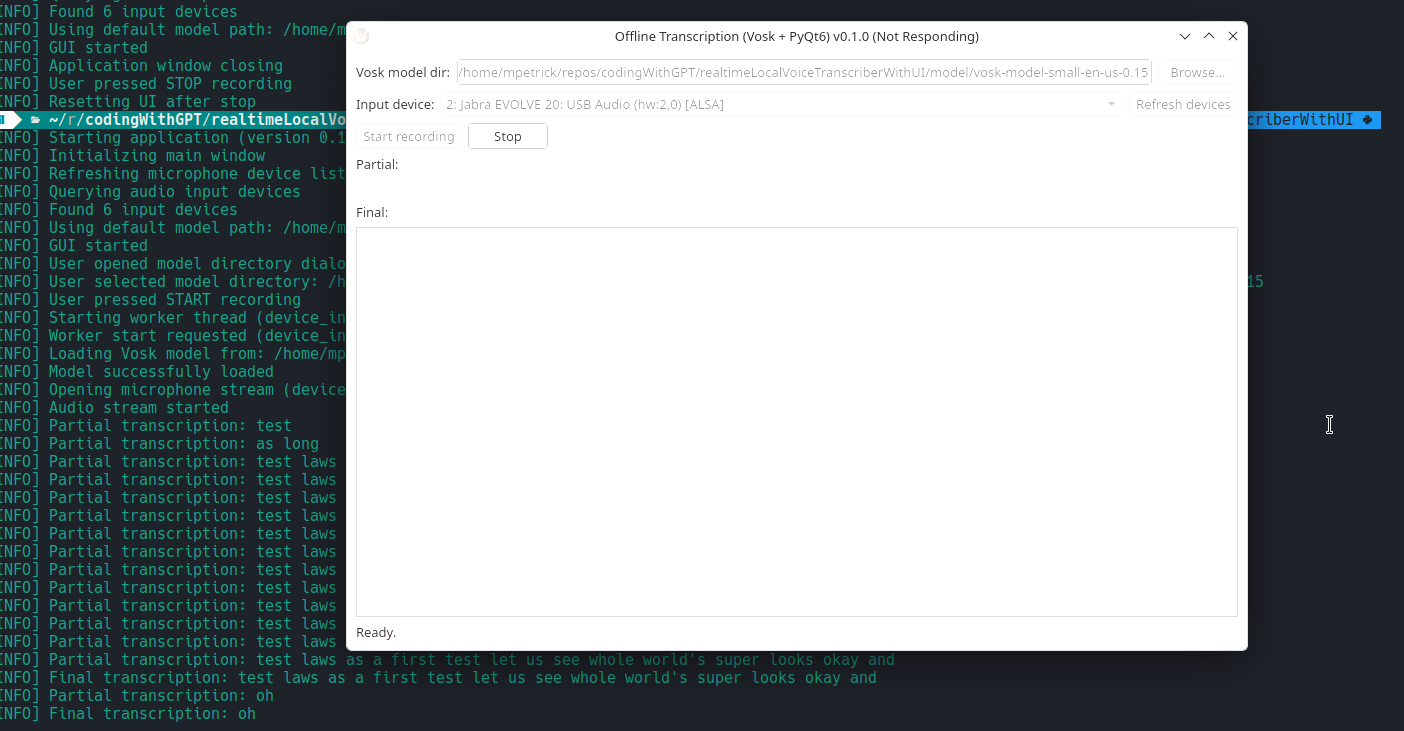
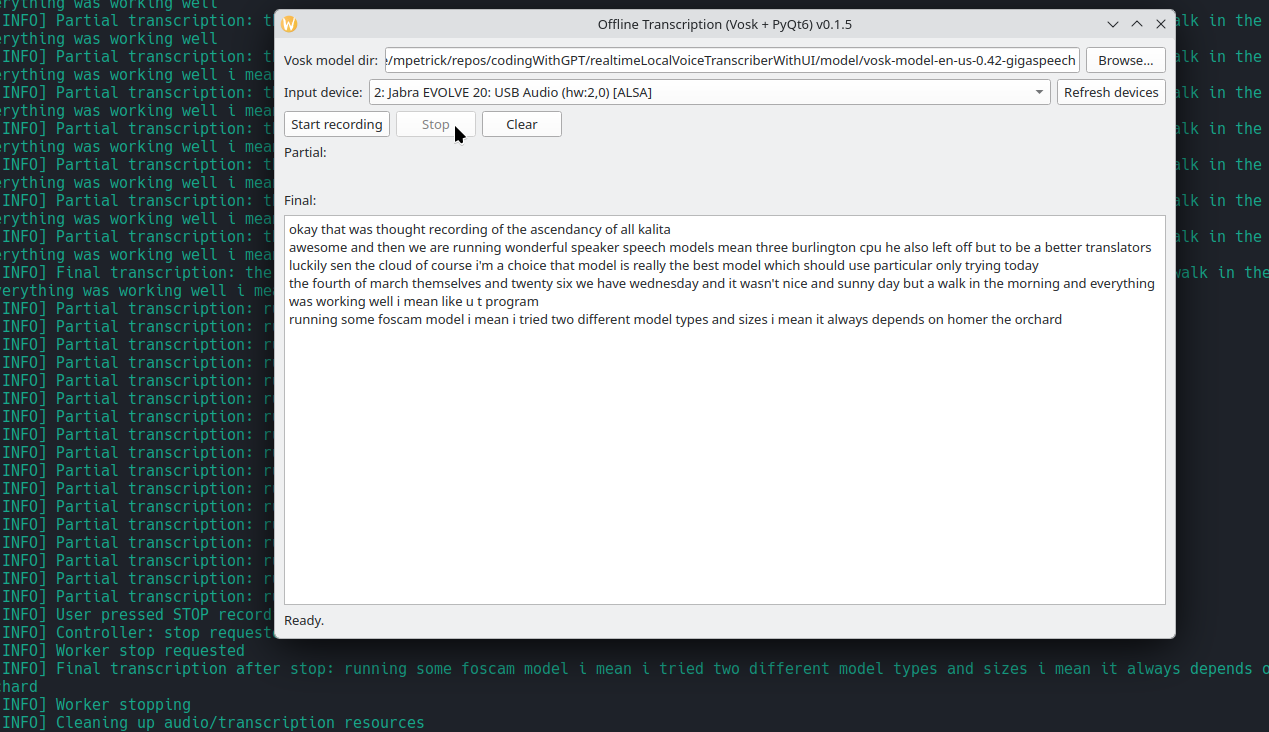
local voice transcription tool: make-over of the UI: progress bar while the model is loaded; clear-button added; editing the textfield is possible

Changed region(s): [[0.0, 0.0, 1.0, 1.0], [0.8913, 0.9029, 1.0, 0.933]]

diff --git a/realtimeLocalVoiceTranscriberWithUI/gui.py b/realtimeLocalVoiceTranscriberWithUI/gui.py
@@ -41,6 +41,7 @@ class MainWindow(QtWidgets.QMainWindow):
         self.resize(900, 600)
 
         self._controller = TranscriptionController(self)
+        self._running: bool = False  # authoritative UI state
 
         # Persistent settings (INI file via QSettings)
         config_dir = Path(
@@ -51,8 +52,8 @@ class MainWindow(QtWidgets.QMainWindow):
         try:
             config_dir.mkdir(parents=True, exist_ok=True)
         except Exception:
-            # If config dir creation fails, QSettings will still try to create the file later.
             pass
+
         self._settings_path = config_dir / "settings.ini"
         self._settings = QtCore.QSettings(
             str(self._settings_path), QtCore.QSettings.Format.IniFormat
@@ -78,6 +79,16 @@ class MainWindow(QtWidgets.QMainWindow):
         self.stop_btn = QtWidgets.QPushButton("Stop")
         self.stop_btn.setEnabled(False)
 
+        # NEW: Clear button (only usable when not running)
+        self.clear_btn = QtWidgets.QPushButton("Clear")
+        self.clear_btn.setEnabled(True)
+
+        # NEW: Busy indicator for slow model loading / start
+        self.busy_bar = QtWidgets.QProgressBar()
+        self.busy_bar.setRange(0, 0)  # indeterminate
+        self.busy_bar.setTextVisible(False)
+        self.busy_bar.setVisible(False)
+
         self.status_label = QtWidgets.QLabel("Ready.")
         self.status_label.setWordWrap(True)
 
@@ -85,8 +96,9 @@ class MainWindow(QtWidgets.QMainWindow):
         self.partial_label.setStyleSheet("font-style: italic;")
         self.partial_label.setWordWrap(True)
 
+        # NEW: Make final field editable (but we will toggle readOnly while running)
         self.text_out = QtWidgets.QPlainTextEdit()
-        self.text_out.setReadOnly(True)
+        self.text_out.setReadOnly(False)
         self.text_out.setPlaceholderText("Final transcription will appear here…")
 
         # Layout
@@ -109,7 +121,9 @@ class MainWindow(QtWidgets.QMainWindow):
         btn_row = QtWidgets.QHBoxLayout()
         btn_row.addWidget(self.start_btn)
         btn_row.addWidget(self.stop_btn)
+        btn_row.addWidget(self.clear_btn)
         btn_row.addStretch(1)
+        btn_row.addWidget(self.busy_bar)
         layout.addLayout(btn_row)
 
         layout.addWidget(QtWidgets.QLabel("Partial:"))
@@ -123,6 +137,9 @@ class MainWindow(QtWidgets.QMainWindow):
         self.refresh_devices_btn.clicked.connect(self._populate_devices)
         self.start_btn.clicked.connect(self._on_start_clicked)
         self.stop_btn.clicked.connect(self._on_stop_clicked)
+
+        # NEW: clear final text
+        self.clear_btn.clicked.connect(self._on_clear_clicked)
 
         # Persist user choices
         self.model_path_edit.editingFinished.connect(self._save_model_dir)
@@ -138,6 +155,9 @@ class MainWindow(QtWidgets.QMainWindow):
         # Initialize defaults (restore persisted choices first)
         self._populate_devices()
         self._init_default_model_path()
+
+        # Initial UI state rules
+        self._apply_editability_rules()
 
     def closeEvent(self, event: QtGui.QCloseEvent) -> None:
         """
@@ -172,7 +192,6 @@ class MainWindow(QtWidgets.QMainWindow):
             _info(f"Using default model path: {mp}")
             self.model_path_edit.setText(str(mp))
             self.start_btn.setEnabled(True)
-            # Don't overwrite a user's previous choice unless they change it.
         else:
             _warn("No default Vosk model found. Set VOSK_MODEL_PATH or put a model in ./model.")
             self.status_label.setText("No model dir found. Set VOSK_MODEL_PATH or put a model in ./model.")
@@ -181,7 +200,6 @@ class MainWindow(QtWidgets.QMainWindow):
     def _populate_devices(self) -> None:
         _info("Refreshing microphone device list")
 
-        # Prefer the currently selected device; otherwise fall back to persisted choice.
         preferred = self.device_combo.currentData()
         if preferred is None:
             preferred = self._saved_device_index
@@ -198,7 +216,6 @@ class MainWindow(QtWidgets.QMainWindow):
             if i >= 0:
                 self.device_combo.setCurrentIndex(i)
             else:
-                # If the saved device no longer exists, fall back to default.
                 self.device_combo.setCurrentIndex(0)
         finally:
             self.device_combo.blockSignals(False)
@@ -206,7 +223,6 @@ class MainWindow(QtWidgets.QMainWindow):
     # --------------------------- Persistence ---------------------------
 
     def _save_model_dir(self) -> None:
-        """Persist the currently entered model directory to the INI file."""
         model_dir = self.model_path_edit.text().strip()
         if not model_dir:
             return
@@ -216,7 +232,6 @@ class MainWindow(QtWidgets.QMainWindow):
         _info(f"Persisted model path to settings: {model_dir}")
 
     def _save_device_index(self, device_index: int) -> None:
-        """Persist the selected input device index to the INI file."""
         self._settings.setValue("audio/device_index", int(device_index))
         self._settings.sync()
         self._saved_device_index = int(device_index)
@@ -224,16 +239,12 @@ class MainWindow(QtWidgets.QMainWindow):
 
     @QtCore.pyqtSlot(int)
     def _on_device_changed(self, _: int) -> None:
-        """Handle device selection changes (stdout + persistence)."""
         device_index = int(self.device_combo.currentData() or -1)
         device_label = self.device_combo.currentText()
-
-        # Explicit stdout output as requested (in addition to internal logging)
         print(f"Selected input device: {device_label} (device_index={device_index})", flush=True)
-
         self._save_device_index(device_index)
 
-# --------------------------- User actions ---------------------------
+    # --------------------------- User actions ---------------------------
 
     def _browse_model_dir(self) -> None:
         _info("User opened model directory dialog")
@@ -267,16 +278,31 @@ class MainWindow(QtWidgets.QMainWindow):
         self._save_model_dir()
         self._save_device_index(device_index)
 
+        # Immediate UX feedback: disable Start right away and show busy indicator.
+        # Actual running state will be confirmed by running_changed/status signals.
+        self.start_btn.setEnabled(False)
+        self._set_busy(True, "Starting… loading model")
+
         self._controller.start(model_dir=model_dir, device_index=device_index)
 
     def _on_stop_clicked(self) -> None:
         _info("User pressed STOP recording")
         self._controller.stop()
 
+    def _on_clear_clicked(self) -> None:
+        # Only allowed when not recording
+        if self._running:
+            return
+        self.text_out.clear()
+        self._set_status("Cleared.")
+        self.partial_label.setText("")
+
     # --------------------------- UI updates ---------------------------
 
     @QtCore.pyqtSlot(bool)
     def _set_running_state(self, running: bool) -> None:
+        self._running = bool(running)
+
         # Enable/disable controls depending on state.
         self.start_btn.setEnabled(not running)
         self.stop_btn.setEnabled(running)
@@ -286,13 +312,23 @@ class MainWindow(QtWidgets.QMainWindow):
         self.model_path_edit.setEnabled(not running)
         self.model_browse_btn.setEnabled(not running)
 
+        # NEW: Clear + editability only when NOT running
+        self.clear_btn.setEnabled(not running)
+        self._apply_editability_rules()
+
         if not running:
             self._set_partial("")
+            self._set_busy(False, "Ready.")
+
+    def _apply_editability_rules(self) -> None:
+        # editable ONLY when not recording
+        self.text_out.setReadOnly(self._running)
 
     @QtCore.pyqtSlot(str)
     def _append_final(self, text: str) -> None:
         if not text:
             return
+        # While recording, keep the caret at end and append; users can edit later.
         self.text_out.appendPlainText(text)
 
     @QtCore.pyqtSlot(str)
@@ -301,11 +337,37 @@ class MainWindow(QtWidgets.QMainWindow):
 
     @QtCore.pyqtSlot(str)
     def _set_status(self, text: str) -> None:
-        self.status_label.setText(text)
+        # If model loading takes time, worker emits "Loading model: ..."
+        # Reflect it and show busy indicator.
+        t = (text or "").strip()
+        self.status_label.setText(t if t else "")
+
+        low = t.lower()
+        if ("loading model" in low) or ("loading" in low and "model" in low):
+            self._set_busy(True, t)
+        elif ("recording" in low) or ("offline transcription running" in low):
+            # recording started; we can drop "loading" indicator
+            self._set_busy(False, t)
+        elif ("stopped" in low):
+            self._set_busy(False, t)
+
+    def _set_busy(self, busy: bool, status_text: Optional[str] = None) -> None:
+        self.busy_bar.setVisible(bool(busy))
+        # Busy cursor gives immediate feedback during slow model loads
+        if busy:
+            QtWidgets.QApplication.setOverrideCursor(
+                QtGui.QCursor(QtCore.Qt.CursorShape.BusyCursor)
+            )
+        else:
+            QtWidgets.QApplication.restoreOverrideCursor()
+
+        if status_text is not None:
+            self.status_label.setText(status_text)
 
     @QtCore.pyqtSlot(str)
     def _on_fatal(self, msg: str) -> None:
         _err(f"Fatal worker error: {msg}")
         self._set_status(msg)
+        self._set_busy(False, msg)
         # Ensure UI recovers even on worker failure.
         self._set_running_state(False)

diff --git a/realtimeLocalVoiceTranscriberWithUI/model_handler.py b/realtimeLocalVoiceTranscriberWithUI/model_handler.py
@@ -36,7 +36,7 @@ except Exception as exc:  # pragma: no cover
 
 # --------------------------- Version ---------------------------
 
-APP_VERSION = "0.1.4"  # SemVer; update manually as needed.
+APP_VERSION = "0.1.5"  # SemVer; update manually as needed.
 
 
 # --------------------------- Logging ---------------------------
